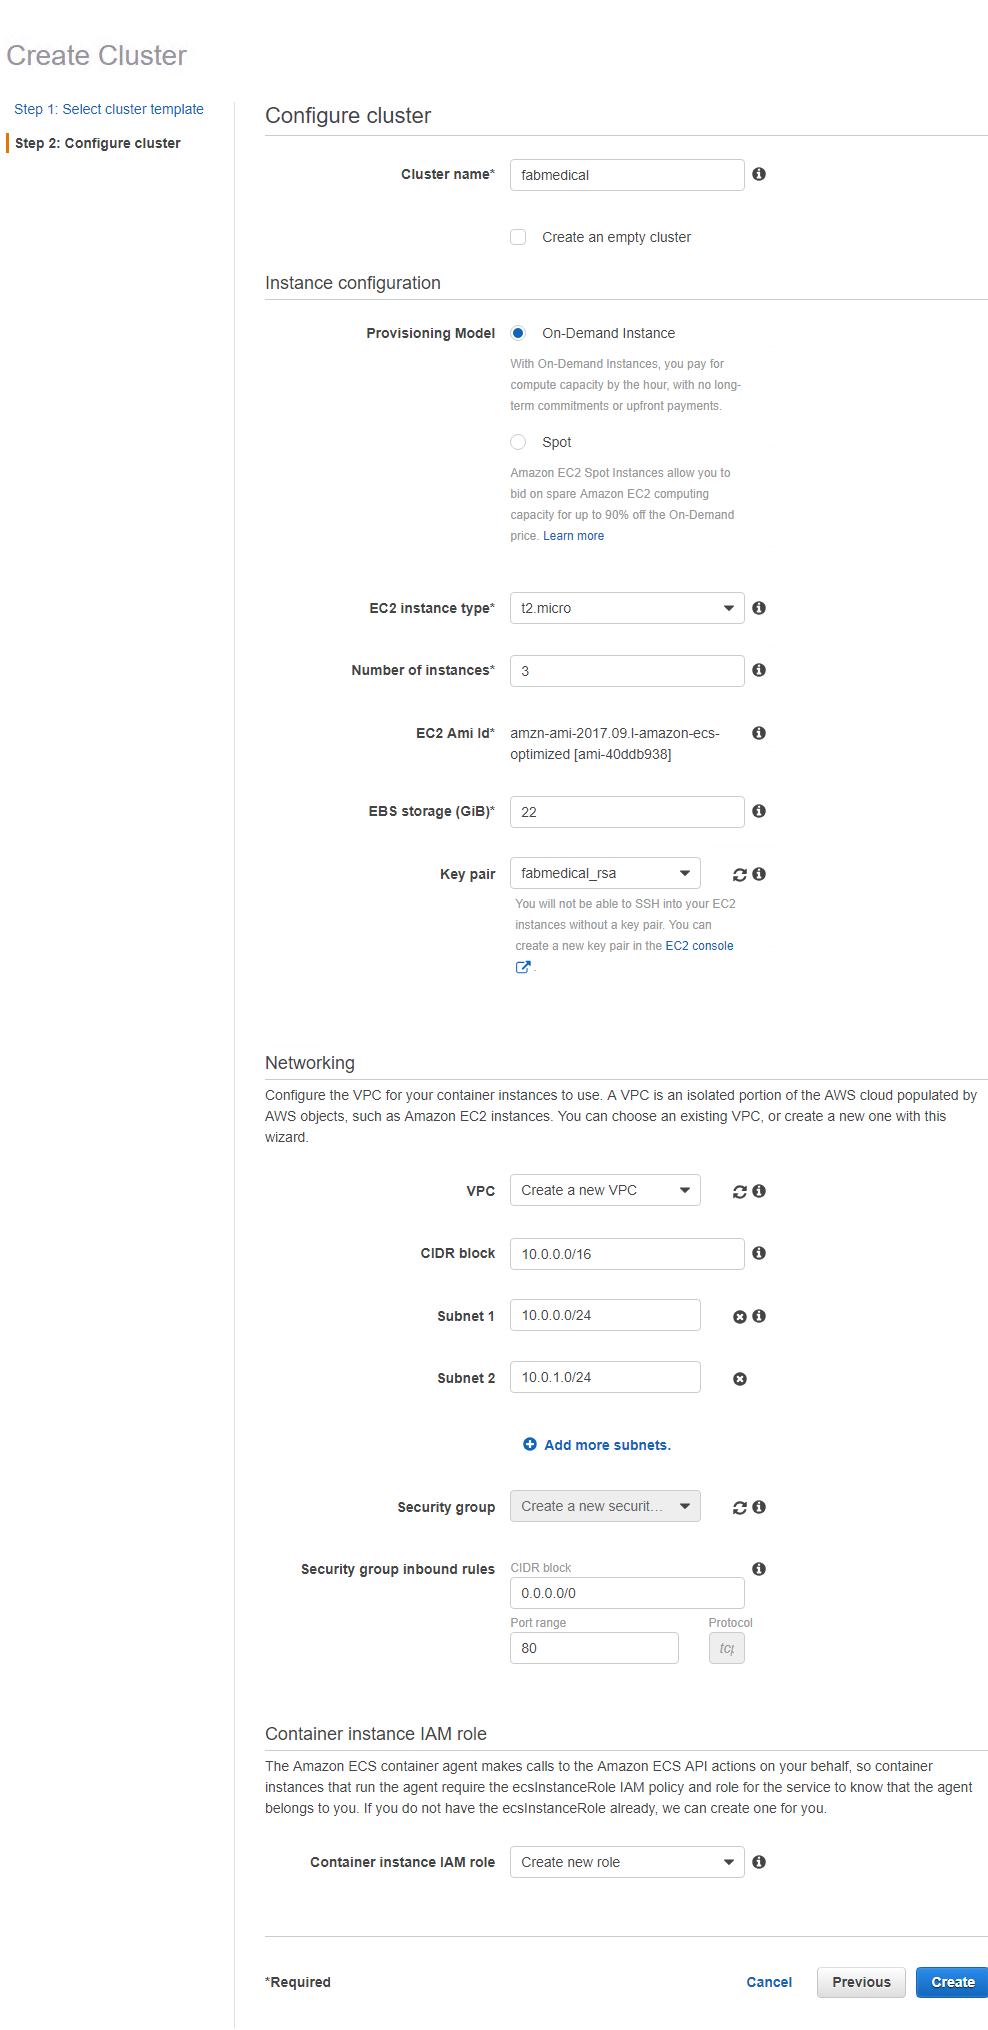
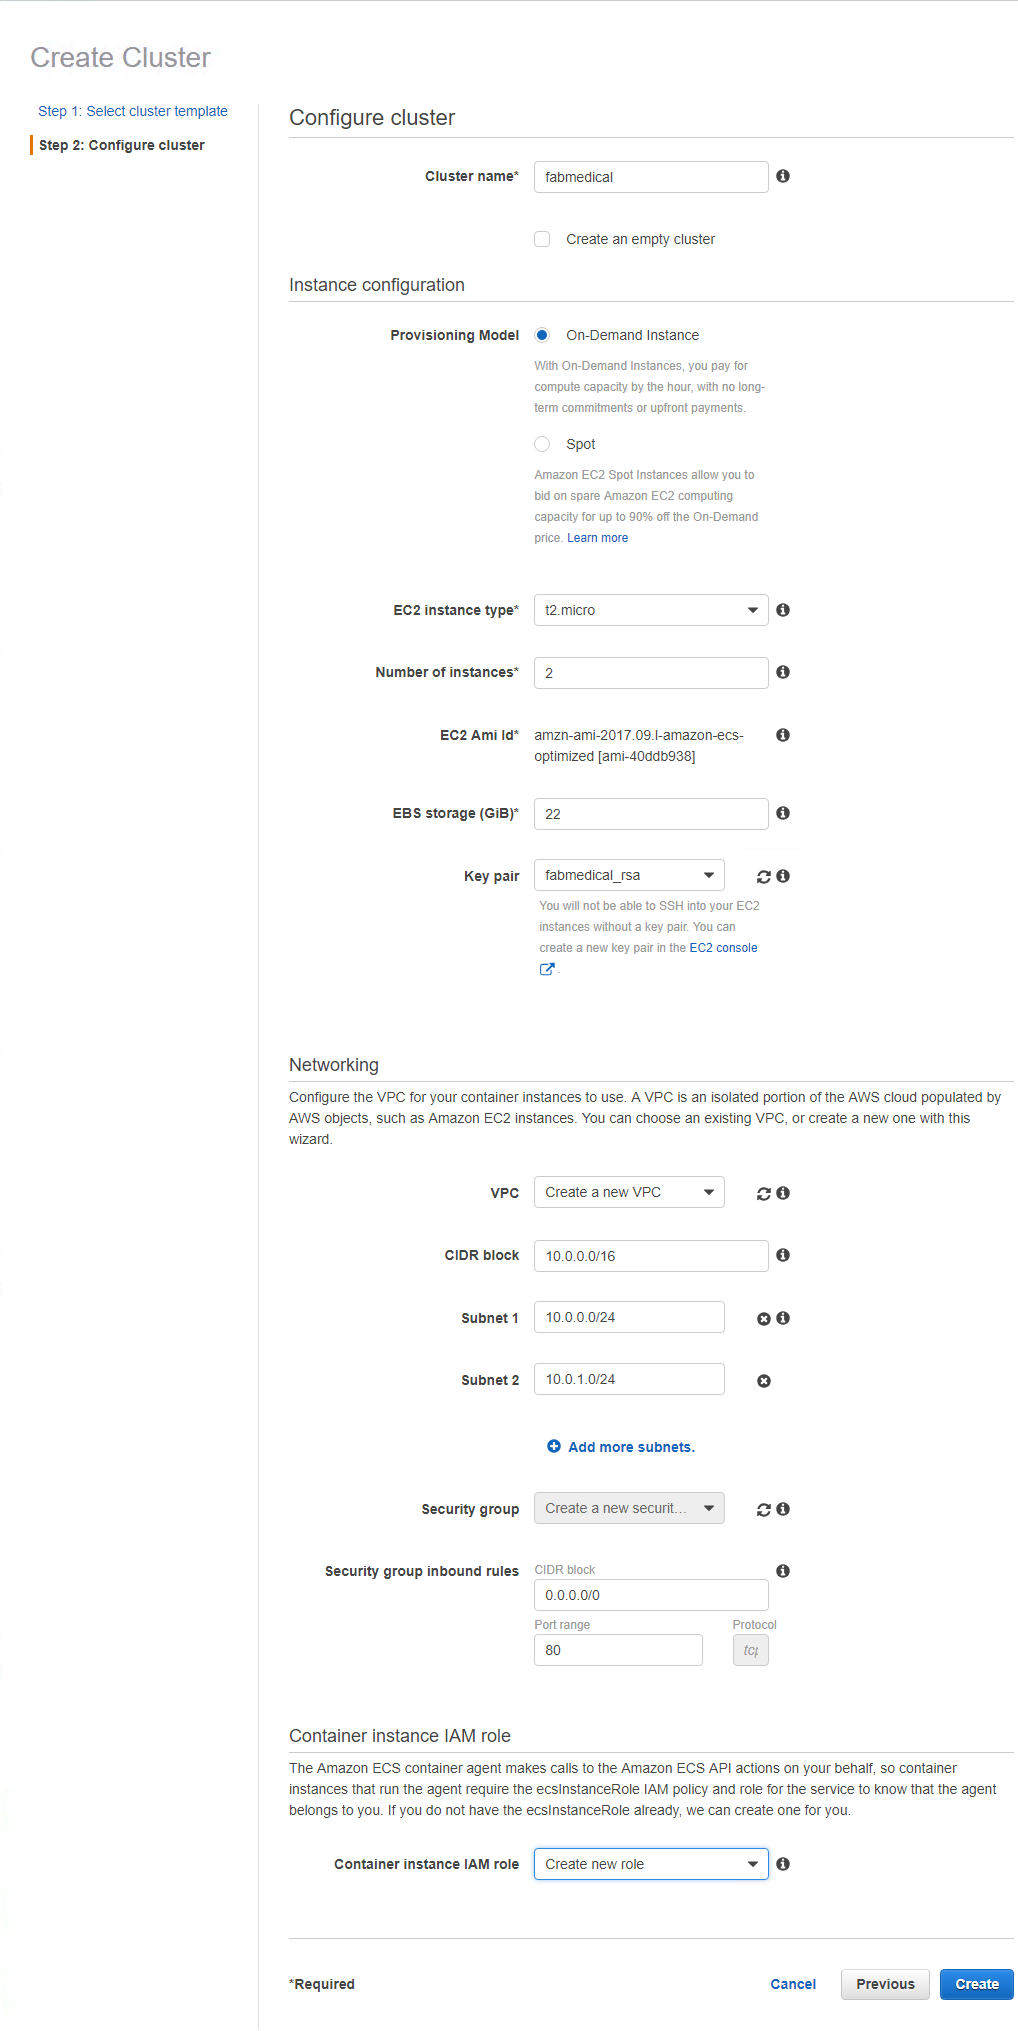
Update image and instance count

diff --git a/Lab_Setup/AWS_Lab_Setup/Lab_Setup_For_AWS.md b/Lab_Setup/AWS_Lab_Setup/Lab_Setup_For_AWS.md
@@ -486,7 +486,7 @@ In this task, you will create your Elastic Container Service cluster. You will u
     * Instance Configuration
         * Provisioning Model: On-Demand instance
         * EC2 Instance Type: Select t2.micro
-        * Number of instances: 3
+        * Number of instances: 2
         * EBS storage (GiB): 22 
         * Key pair: Select fabmedical_rsa
     * Networking
